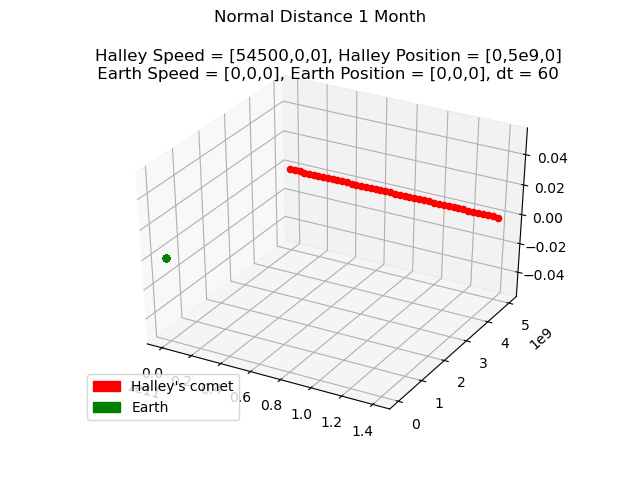
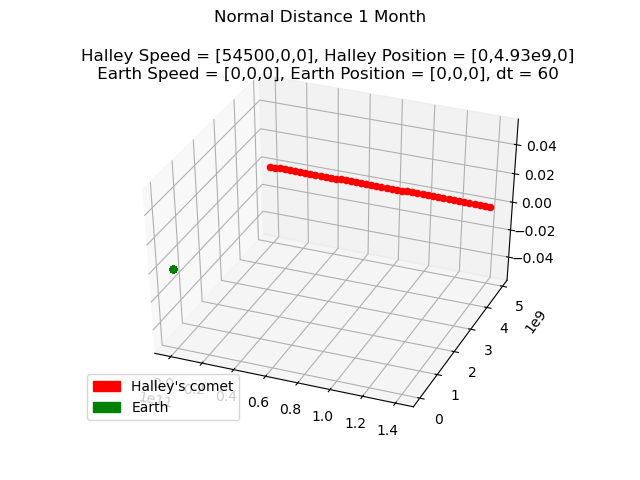
new distance

diff --git a/normal_distance.py b/normal_distance.py
@@ -143,7 +143,7 @@ dt=60     #sec    Paso de 60 segundos
 earth = Particle([0, 0, 0], [0, 0, 0], 6e24)
 #4936729700 m distancia de Halley a la Tierra
 ##https://solarsystem.nasa.gov/asteroids-comets-and-meteors/comets/1p-halley/in-depth/#:~:text=The%20comet%27s%20closest%20approach%20to,miles%20or%204.94%20million%20kilometers
-halley = Particle([0,5e9,0], [54500,0,0], 2.2e14)
+halley = Particle([0,4.93e9,0], [54500,0,0], 2.2e14)
 #¿O redondeamos 4.93 a 5?
 n_steps = int(lenTime/dt)
 
@@ -260,7 +260,7 @@ for particle in particles:
 #ax[2].grid()
 
 
-plt.title('Halley Speed = [54500,0,0], Halley Position = [0,5e9,0]\n Earth Speed = [0,0,0], Earth Position = [0,0,0], dt = 60 ')
+plt.title('Halley Speed = [54500,0,0], Halley Position = [0,4.93e9,0]\n Earth Speed = [0,0,0], Earth Position = [0,0,0], dt = 60 ')
 fig.suptitle('Normal Distance 1 Month')
 red_patch = mpatches.Patch(color='red', label='Halley\'s comet')
 green_patch = mpatches.Patch(color='green', label='Earth')
